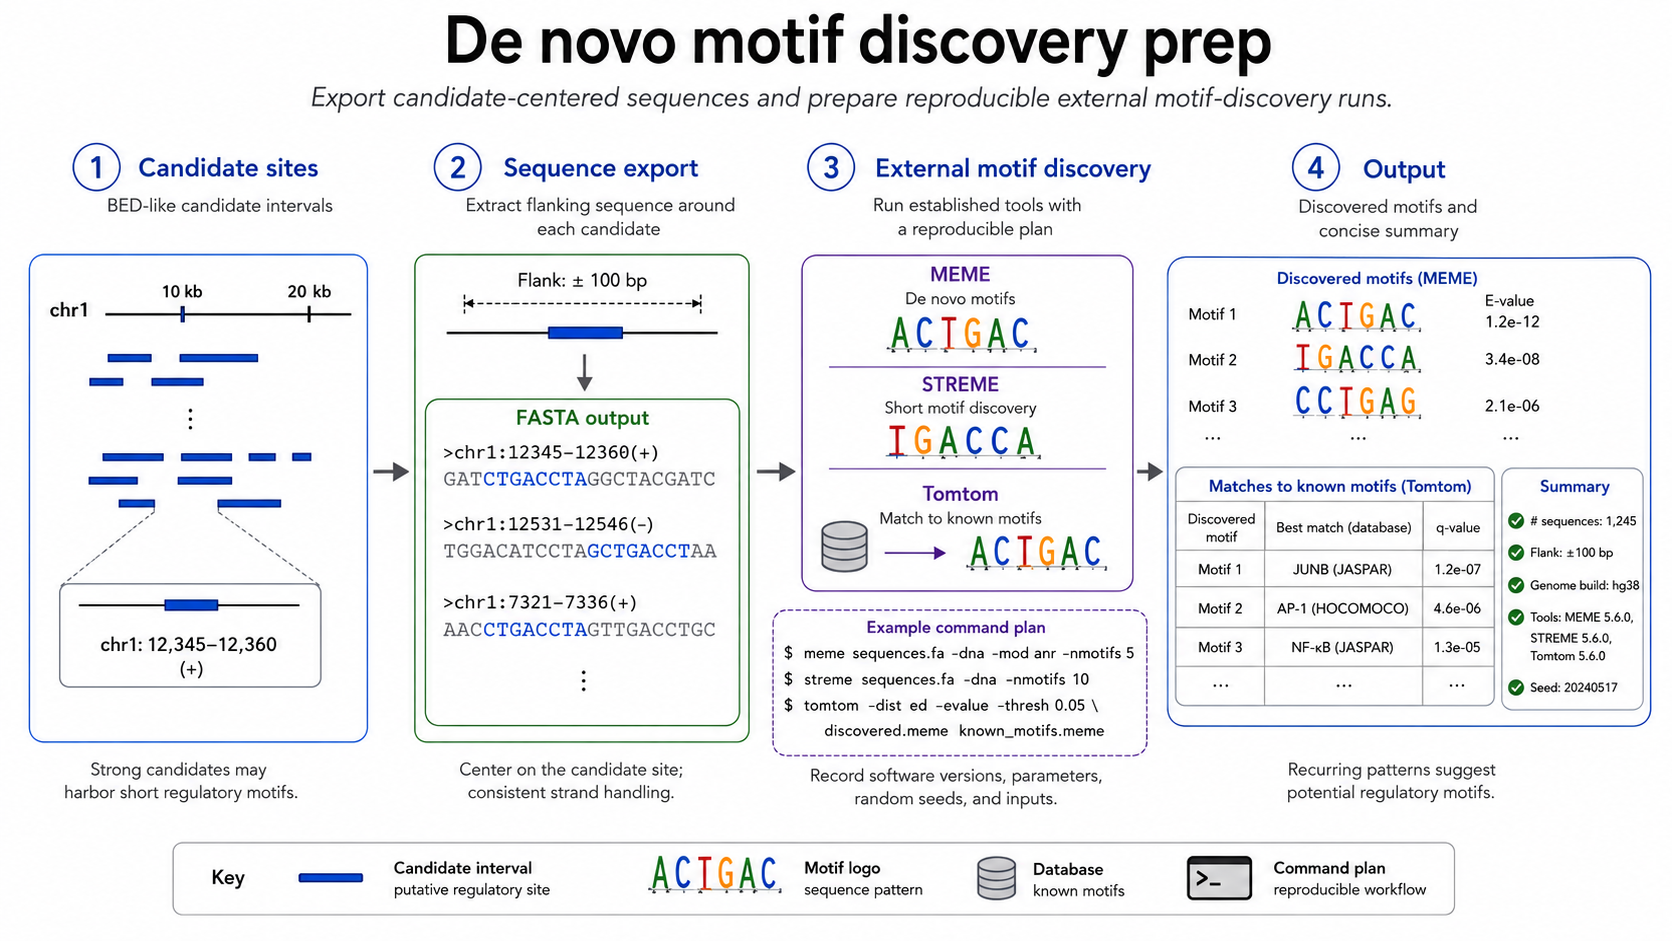
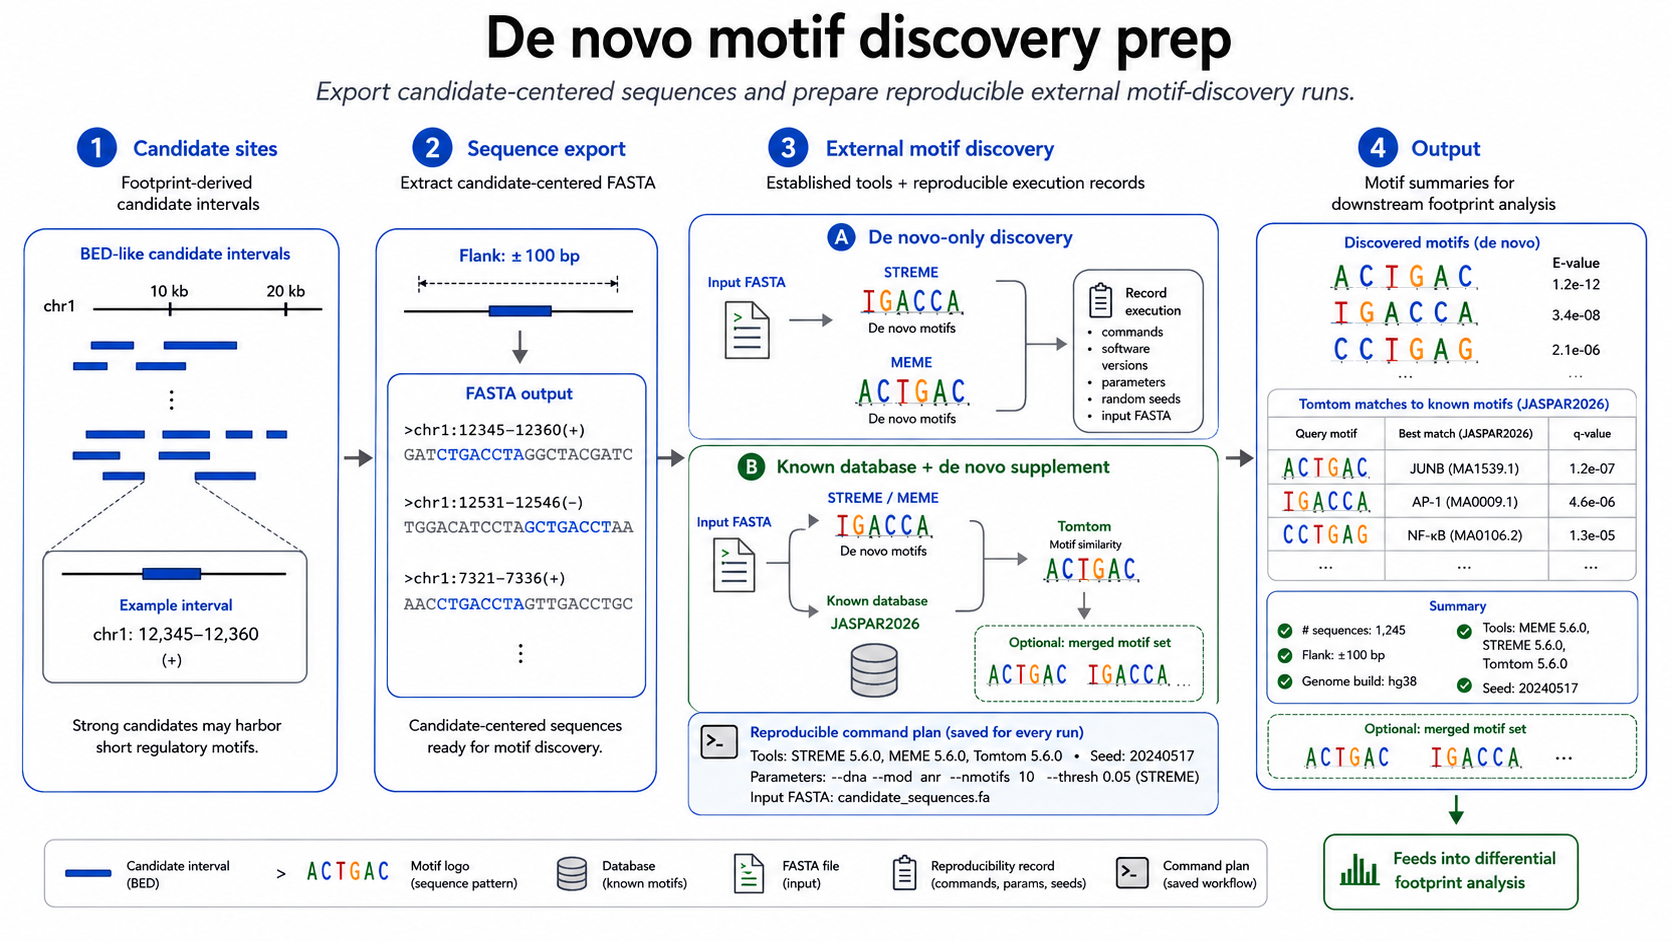
Update workflow figures and manuscript context

Changed region(s): [[0.0, 0.0, 0.9952, 0.9862], [0.0311, 0.1233, 0.2177, 0.2774]]

diff --git a/manuscript/main.tex b/manuscript/main.tex
@@ -388,14 +388,15 @@ machine-readable form for reruns and batch processing (Figure~\ref{fig:workflow}
 
 \begin{figure}[H]
 \includegraphics[width=\textwidth]{figures/fp-tools-workflow.png}
-\caption{Overall \texttt{fp-tools} workflow. Bulk ATAC-seq inputs enter an
-integrated classical core for Tn5 bias correction, footprint calling, motif
-matching, differential footprint analysis, and aggregate visualization. Optional
-workflow layers support YAML-based reruns, de novo motif-discovery preparation,
-pseudobulk fragment aggregation, and replicate-aware reporting. Outputs include
-signal tracks, motif-site tables, differential-footprint reports, aggregate
-profiles, pseudobulk manifests, benchmark metrics, and reproducible figure
-inputs.\label{fig:workflow}}
+\caption{Generic \texttt{fp-tools} regulatory-footprinting framework. Bulk
+ATAC-seq inputs enter an integrated classical core for Tn5 bias correction,
+footprint calling, motif matching, differential footprint analysis, and aggregate
+visualization. Optional branches support single-cell pseudobulk fragment
+generation, de novo motif-discovery preparation from candidate intervals, and
+replicate-aware reporting within differential comparisons. Outputs include
+corrected cut-site tracks, footprint score tracks or candidate BEDs, motif-site
+tables, differential-footprint HTML reports, aggregate profiles, pseudobulk
+manifests, de novo motif reports, and reproducibility metadata.\label{fig:workflow}}
 \end{figure}
 
 \subsection{Regression-tested Workflow Outputs}
@@ -416,6 +417,17 @@ external motif discovery reproducible while relying on established motif-discove
 algorithms. The workflow can be used alone to discover
 recurring patterns in candidate intervals, or after known-motif scanning to find
 additional motifs not represented in the selected database.
+
+\begin{figure}[H]
+\includegraphics[width=\textwidth]{figures/fp-tools-de-novo-motif.png}
+\caption{Generic de novo motif-discovery preparation workflow. Candidate
+footprint intervals are converted into candidate-centered FASTA sequences,
+external motif-discovery tools such as STREME or MEME are run with recorded
+parameters and software versions, and discovered motifs are summarized alone or
+matched back to known motif databases such as JASPAR2026. The same output can be
+used as a standalone de novo result or as a supplemental motif set for downstream
+differential footprint analysis.\label{fig:denovo_workflow}}
+\end{figure}
 
 We therefore evaluated whether candidate-derived motifs add information beyond a fixed
 database using the same 2-vs-2 Buenrostro B-cell versus
@@ -523,6 +535,17 @@ prepared figure inputs used chromosomes chr1--chr22 plus chrX. The kept
 pseudobulks contained 13.6--144.0 million counted fragments per group and were
 written as indexed fragment files plus CPM-normalized cut-site bigWigs. These
 outputs were readable by the same aggregate-plotting code used for bulk ATAC data.
+
+\begin{figure}[H]
+\includegraphics[width=\textwidth]{figures/fp-tools-pseudo-bulk.png}
+\caption{Example pseudobulk fragment workflow using public 10x PBMC single-cell
+ATAC data. Single-cell fragment records and cell annotations are grouped by broad
+immune-cell labels, converted into one pseudobulk fragment file per retained
+group, and summarized with QC fields, indexed outputs, and CPM-normalized
+cut-site bigWigs for downstream footprinting. The mini aggregate panels in the
+workflow illustrate motif-centered validation profiles from the same PBMC example,
+not a separate generic benchmark.\label{fig:pseudobulk_workflow}}
+\end{figure}
 
 As a qualitative validation, we aggregated pseudobulk cut-site signal around exact
 motif centers rather than around broad peak centers. JASPAR2026 vertebrate motifs

diff --git a/README.md b/README.md
@@ -18,6 +18,10 @@ pip install "fp-tools-bio[gui]"
 
 ## Workflow
 
+The regulatory-footprinting framework below is a generic overview of the current command-first workflow.
+
+![fp-tools regulatory footprinting framework](manuscript/figures/fp-tools-workflow.png)
+
 The main workflow is:
 
 ```text
@@ -162,7 +166,7 @@ plot-aggregate-batch   --input-html examples/diff_footprints/Bcell_vs_Tcell/diff
 
 ![De novo motif discovery preparation workflow](docs/assets/fp-tools-de-novo-motif.png)
 
-`motif-discovery` can start from the candidate BED written by `call-footprints`, export candidate-centered sequences, and write a reproducible MEME/DREME/STREME plus Tomtom command script. Use it alone for de novo-only motif discovery, or provide a known database such as JASPAR2026 so discovered motifs can supplement database-supported motif analysis.
+The schematic above is a generic method workflow: it starts from footprint-derived candidate intervals, exports candidate-centered FASTA, records external MEME/STREME/Tomtom execution settings, and returns motif summaries that can be used downstream. `motif-discovery` can be run as de novo-only discovery, or with a known database such as JASPAR2026 so discovered motifs can supplement database-supported motif analysis.
 
 ```bash
 motif-discovery   --candidates examples/footprints/Bcell_candidate_footprints.bed   --genome test_data/genome.fa.gz   --outdir examples/motifs/Bcell_denovo   --method streme   --known-motifs jaspar2026_vertebrates.meme
@@ -172,7 +176,7 @@ motif-discovery   --candidates examples/footprints/Bcell_candidate_footprints.be
 
 ![Pseudobulk fragment workflow](docs/assets/fp-tools-pseudo-bulk.png)
 
-`pseudobulk-fragments` groups single-cell ATAC fragments by a metadata column such as cell type, treatment, donor, or cluster. Each group is written as a bulk-like fragment file and manifest entry for downstream footprinting. The example below uses public 10x PBMC fragments and aggregates CPM-normalized pseudobulk cut-site tracks around exact JASPAR2026 motif centers scanned inside 10x peaks. The motif-site summary reports the natural number of motif hits used for each aggregate.
+The schematic above is an example workflow using public 10x PBMC single-cell ATAC fragments and immune-cell annotations. `pseudobulk-fragments` groups fragments by a metadata column such as cell type, treatment, donor, or cluster; writes one bulk-like fragment file and manifest entry per retained group; and can generate CPM-normalized cut-site tracks for downstream footprinting. In this PBMC example, the validation aggregates are centered on exact JASPAR2026 motif sites scanned inside 10x peaks, and the motif-site summary reports the natural number of motif hits used for each aggregate.
 
 ```bash
 pseudobulk-fragments   --fragments data/public/raw/10x_pbmc/pbmc_granulocyte_sorted_10k_atac_fragments.tsv.gz   --annotations data/public/processed/pseudobulk_pbmc/pbmc_10x_cell_annotations.tsv   --group-by cell_type   --min-cells 300   --min-fragments 50000   --index-output   --write-cutsite-bigwigs   --genome-sizes data/public/processed/pseudobulk_pbmc/hg38.chrom.sizes   --outdir data/public/processed/pseudobulk_pbmc/run